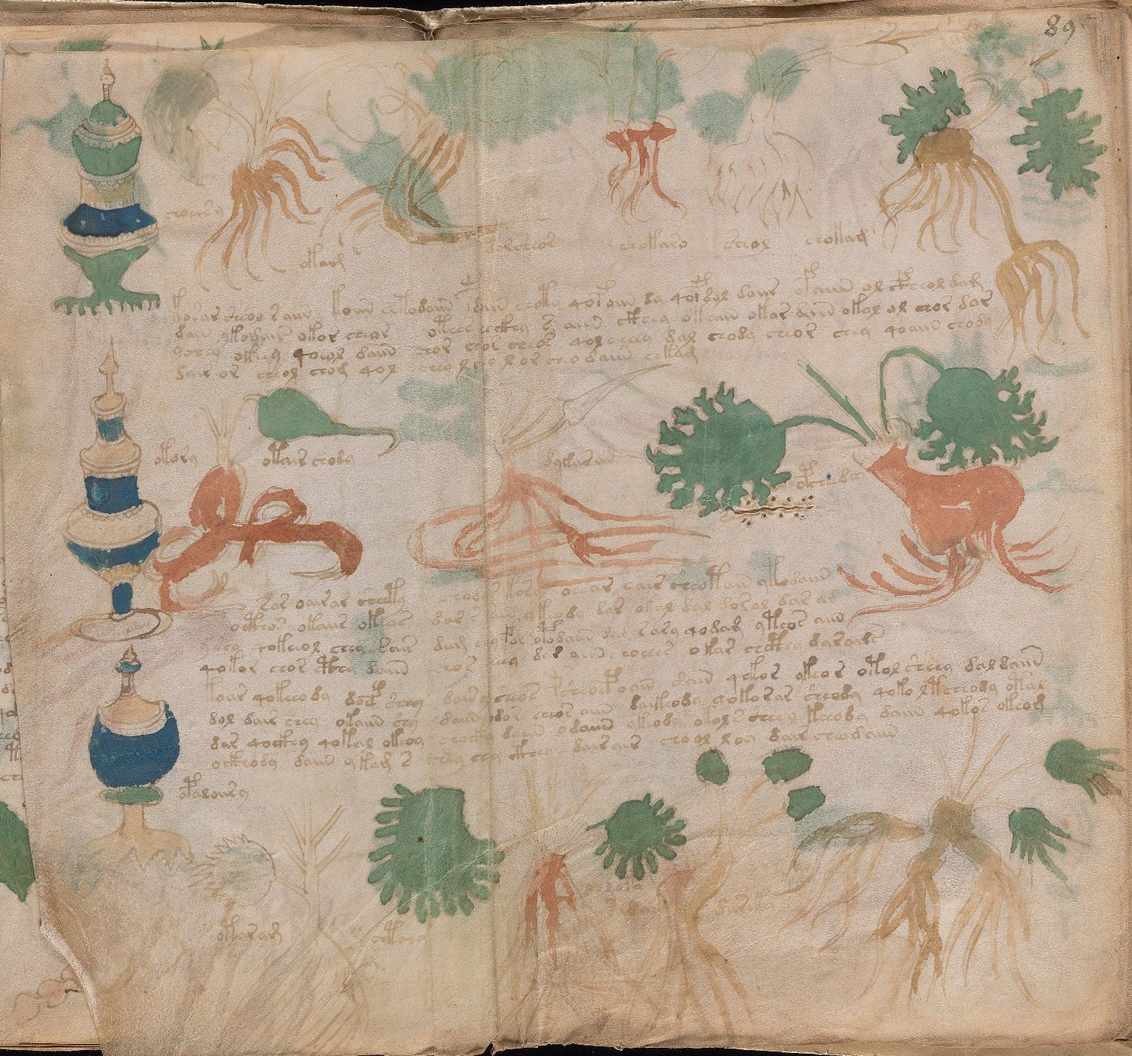
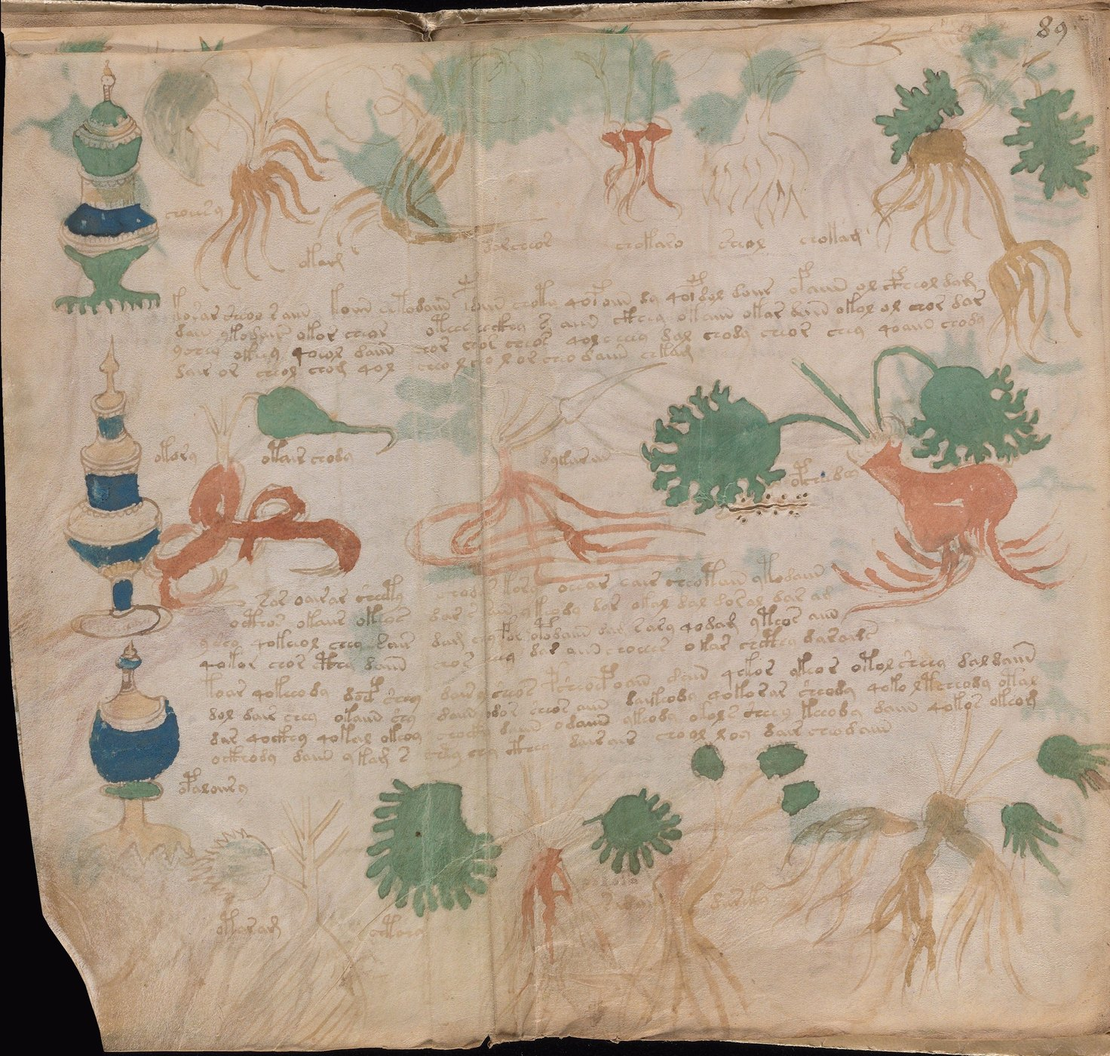
f89v2: cut to the page's own edges, torn corner blacked out; v1.4 (#4)
Yale photographed f89v2 lying on another page at the edge of the book, and the panel was a loose rectangle around it:
- its right side, in the middle of the opened-out sheet next to 89v1, carried a strip of the book's stacked page edges
  (the strip v1.3 took out of the other foldouts; there it is on the hinge panel, here on the flap itself);
- its left side carried a strip of the page underneath, whose drawings also showed through the torn bottom-left corner.

The panel is re-cut from Yale's full-size photograph (1006234) to the paper: quad 100,98 to 3925,3737. The page
underneath, past the torn edge, is a `mask` on the panel in codex.json (a polygon in the photograph's pixels), painted
in the black of Yale's backdrop. The panel images were cut with it, and warp() in work.js paints it too, so it holds
when the Reader zooms in to Yale's full-size photograph (Sharp.fetch takes the warp path for a masked panel) and in the
crop editor. The panel's version stamp is new, so browsers fetch the new images.

Changed region(s): [[0.0, 0.0, 1.0, 1.0], [0.2812, 0.9214, 0.3125, 0.9521]]

diff --git a/assets/app.js b/assets/app.js
@@ -74,7 +74,7 @@ const SECTION = { H: "Herbal", A: "Astronomical", Z: "Zodiac", B: "Balneological
 let D;                       // codex.json
 const SHEETS = new Map();    // "77|82" -> sheet
 let ORDERS = new Map();      // id -> resolved order
-const APP_VERSION = "1.3";
+const APP_VERSION = "1.4";
 const PAGE_SHEET = new Map();   // "f78v" -> "78|81", every page including lost ones
 const RETIRED = { "davis-blog-2025": "davis" };   // orders taken out of the menu -> the order an old link now opens
 
@@ -1121,8 +1121,9 @@ const MIN_ZOOM = 1 / 1.5 ** 3, MAX_ZOOM = 5;   // out: three 1.5x steps (30%); i
    page. When a page on screen is drawn bigger than its image, it is loaded at full size from Yale's image server and
    swapped in once it has arrived; until then, or if Yale cannot be reached, the page stays as it was. Yale's server
    cuts a crop that is an upright rectangle (almost every page); a slanted one is straightened in the browser, as the
-   crop editor does (warp, in work.js). The pages you are likely to zoom into next are loaded ahead (Sharp.ahead, fed
-   by the Reader), so that zooming into them is sharp at once. */
+   crop editor does (warp, in work.js), and so is one with a mask (another page showing past a torn edge, blacked
+   out). The pages you are likely to zoom into next are loaded ahead (Sharp.ahead, fed by the Reader), so that zooming
+   into them is sharp at once. */
 const YALE_IIIF = "https://collections.library.yale.edu/iiif/2/";
 const SHARP_SAY = { wait: "loading the full-size photograph from Yale", done: "full size, from Yale's photograph",
   fail: "Yale's photograph could not be loaded" };
@@ -1282,7 +1283,7 @@ const Sharp = {
   load(seg, key, signal) {
     if (!this.got.has(key)) {
       const p = this.fetch(seg.iiif, seg.quad.map(pt => pt.map(Math.round)), ((seg.rotate || 0) % 360 + 360) % 360, signal,
-        n => { this.bytes.set(key, n); this.tick(); });
+        n => { this.bytes.set(key, n); this.tick(); }, seg.mask);
       p.then(url => {
         this.ready.set(key, url);
         if (this.ready.size > SHARP_KEEP) {   // a page showing it keeps its image; it is only loaded again if drawn anew
@@ -1298,19 +1299,20 @@ const Sharp = {
     return this.got.get(key);
   },
 
-  async fetch(id, q, rot, signal, bytes) {
+  async fetch(id, q, rot, signal, bytes, mask) {
     const xs = q.map(p => p[0]), ys = q.map(p => p[1]);
     const x0 = Math.min(...xs), y0 = Math.min(...ys), x1 = Math.max(...xs), y1 = Math.max(...ys);
     const upright = q[0][1] === q[1][1] && q[2][1] === q[3][1] && q[0][0] === q[3][0] && q[1][0] === q[2][0];
-    const blob = await fromYale(`${YALE_IIIF}${encodeURIComponent(id)}/${x0},${y0},${x1 - x0},${y1 - y0}/full/${upright ? rot : 0}/default.jpg`, signal, bytes);
+    const asIs = upright && !mask?.length;   // Yale's crop needs nothing more
+    const blob = await fromYale(`${YALE_IIIF}${encodeURIComponent(id)}/${x0},${y0},${x1 - x0},${y1 - y0}/full/${asIs ? rot : 0}/default.jpg`, signal, bytes);
     const url = URL.createObjectURL(blob);
-    if (upright) {
+    if (asIs) {
       try { await loaded(url); return url; }
       catch (e) { URL.revokeObjectURL(url); throw e; }
     }
     try {
-      const img = await loaded(url);
-      const cv = warp({ img, k: img.naturalHeight / (y1 - y0) }, q.map(([x, y]) => [x - x0, y - y0]), Infinity, rot);
+      const img = await loaded(url), at = ([x, y]) => [x - x0, y - y0];
+      const cv = warp({ img, k: img.naturalHeight / (y1 - y0) }, q.map(at), Infinity, rot, mask?.map(poly => poly.map(at)));
       return URL.createObjectURL(await toJpeg(cv, .92));
     } finally { URL.revokeObjectURL(url); }
   },

diff --git a/assets/work.js b/assets/work.js
@@ -101,8 +101,9 @@ function perspective(dst, src) {
   return x;
 }
 /* Cut `quad` (TL, TR, BR, BL in the full photograph's pixels) out of a loaded photograph, straighten it, scale it to at
-   most outH tall and turn it `rotate` degrees clockwise. Returns a canvas. */
-function warp(photo, quad, outH, rotate = 0) {
+   most outH tall and turn it `rotate` degrees clockwise. `mask` (a panel's polygons, also in the photograph's pixels)
+   is painted over in the black of Yale's backdrop: another page that shows past a torn edge. Returns a canvas. */
+function warp(photo, quad, outH, rotate = 0, mask = null) {
   const px = Photo.pixels(photo), k = photo.k;
   const q = quad.map(([x, y]) => [x * k, y * k]);
   const [w, hh] = quadSize(q);
@@ -126,6 +127,16 @@ function warp(photo, quad, outH, rotate = 0) {
     }
   }
   cx.putImageData(out, 0, 0);
+  if (mask?.length) {
+    const [A, B, C, D, E, F, G, I] = perspective(q, [[0, 0], [ow, 0], [ow, oh], [0, oh]]);   // photograph -> cut
+    cx.fillStyle = "#080609";
+    cx.beginPath();
+    for (const poly of mask) poly.forEach(([x, y], n) => {
+      const X = x * k, Y = y * k, den = G * X + I * Y + 1;
+      cx[n ? "lineTo" : "moveTo"]((A * X + B * Y + C) / den, (D * X + E * Y + F) / den);
+    });
+    cx.fill();
+  }
   rotate = ((rotate % 360) + 360) % 360;
   if (!rotate) return cv;
   const r = document.createElement("canvas");
@@ -260,7 +271,7 @@ const Crops = {
   async cut(key, quad, rotate) {
     const sg = this.segs(key)[0];
     const photo = await Photo.load(sg);
-    const big = warp(photo, quad, 1400, rotate);
+    const big = warp(photo, quad, 1400, rotate, sg.mask);
     const [l, s] = await Promise.all([toJpeg(big, .86), toJpeg(shrink(big, 300), .82)]);
     let [w, hh] = quadSize(quad);
     if (rotate % 180) [w, hh] = [hh, w];
@@ -556,7 +567,7 @@ const CropEditor = {
     CE.previewT = setTimeout(() => {
       if (!CE.photo) return;
       const box = $("#ce-prev", this.dlg);
-      box.replaceChildren(warp(CE.photo, CE.quad, Math.min(560, Math.max(240, box.clientHeight * (devicePixelRatio || 1))), CE.rotate));
+      box.replaceChildren(warp(CE.photo, CE.quad, Math.min(560, Math.max(240, box.clientHeight * (devicePixelRatio || 1))), CE.rotate, CE.seg.mask));
     }, 90);
   },
   fit() {

diff --git a/index.html b/index.html
@@ -14,7 +14,7 @@
 </head>
 <body>
 <header id="cx-top">
-  <a class="brand" href="./" title="Voynich Viewer">Voynich Viewer</a><button id="cx-ver" class="ver" title="What's new in Voynich Viewer" aria-haspopup="dialog">v1.3</button>
+  <a class="brand" href="./" title="Voynich Viewer">Voynich Viewer</a><button id="cx-ver" class="ver" title="What's new in Voynich Viewer" aria-haspopup="dialog">v1.4</button>
   <nav id="cx-tabs" role="tablist">
     <button role="tab" data-view="three">3D</button>
     <button role="tab" data-view="read">Reader</button>

diff --git a/README.md b/README.md
@@ -67,7 +67,8 @@ assets/privacy.js       the cookie strip and consent; loads Microsoft Clarity on
 assets/style.css
 assets/vendor/          three.js r184 (MIT)
 data/codex.json         the physical model: sheets, quires, panels, scribes, sections, page variables, and for each
-                        panel its Yale photograph (IIIF id) and the corners it is cut from
+                        panel its Yale photograph (IIIF id) and the corners it is cut from; `mask` (f89v2) is
+                        the part of the photograph blacked out, another page showing past a torn edge
 data/orders.json        reading orders, sources and per-sheet evidence notes; edited by hand
 data/changelog.json     what changed and when, newest first; shown under the version number (top left)
 data/panels/            two JPEGs per panel face: _l (1400 px tall) and _s (300 px); zoomed in, the Reader loads the
